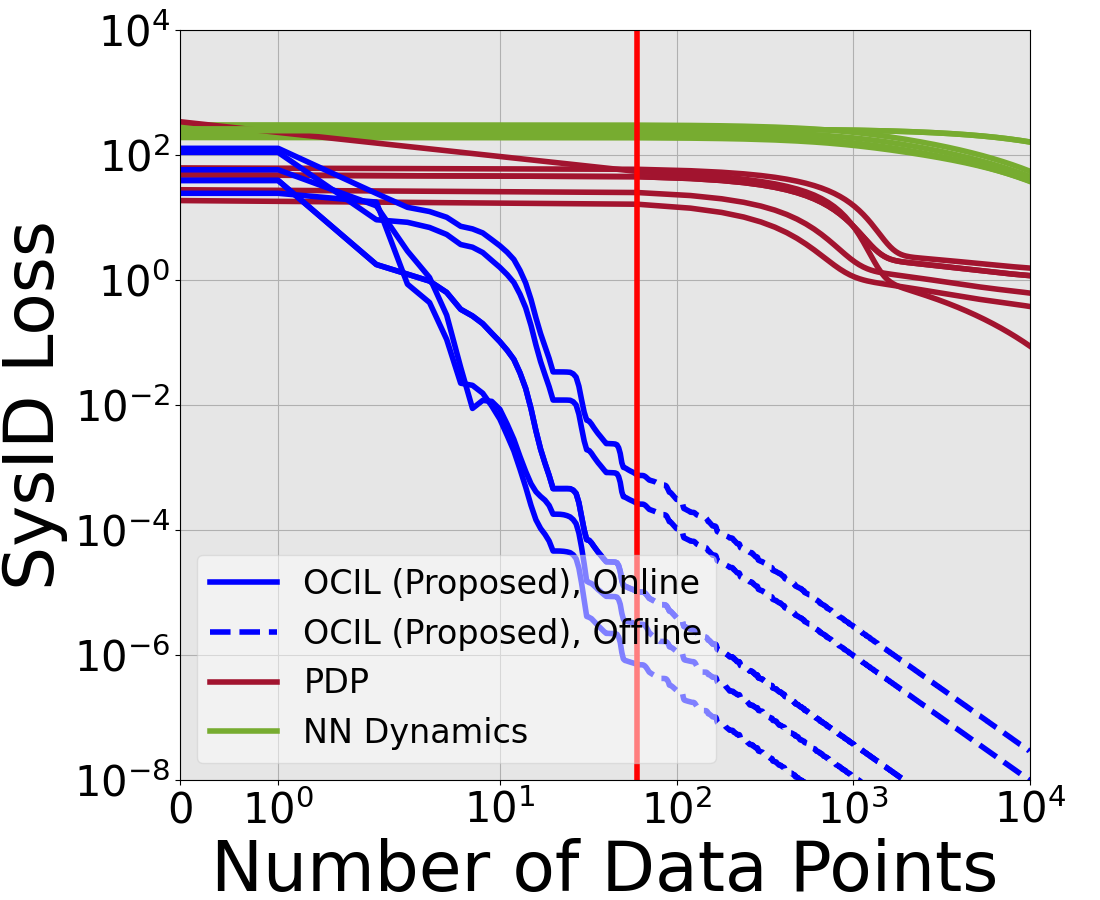
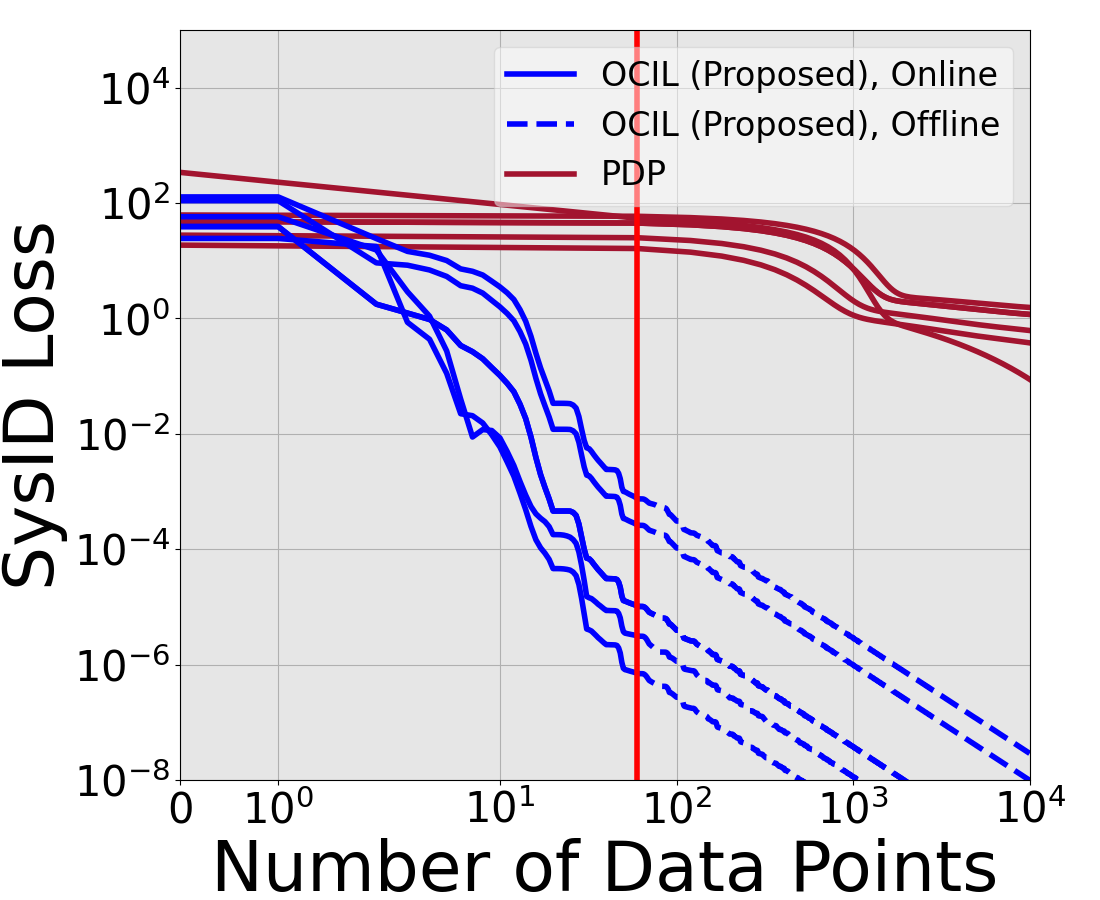
Update examples

diff --git a/examples/SysID/cartpole/data/plot.py b/examples/SysID/cartpole/data/plot.py
@@ -27,7 +27,7 @@ fig.add_axes(ax)
 ax.set_xscale('symlog')
 ax.set_yscale('log')
 ax.set_xlim(0,10000)
-ax.set_ylim(bottom=1e-8,top=1e4)
+ax.set_ylim(bottom=1e-8,top=1e5)
 ax.set_xlabel('Number of Data Points')
 ax.set_ylabel('SysID Loss')
 ax.tick_params(axis='both', which='major')
@@ -56,24 +56,12 @@ for i in range(5):
 pdp_iter = list(range(0, len(pdp_loss_list[0])))
 pdp_iter = [x*horizon for x in pdp_iter]
 
-# load nn results
-nn_loss_list = []
-for i in range(5):
-    load = sio.loadmat('NN_results_trial_' + str(i))
-    loss_trace = load['results']['loss_trace'][0, 0].flatten()
-    nn_loss_list += [loss_trace]
-
-nn_iter = list(range(0, len(nn_loss_list[0])))
-nn_iter = [x*horizon for x in nn_iter]
-
 # plot results
-for pdp_loss, nn_loss in zip(pdp_loss_list, nn_loss_list):
+for pdp_loss in pdp_loss_list:
     ax.plot(pdp_iter, pdp_loss, color = [0.6350, 0.0780, 0.1840], linewidth=4)
-    ax.plot(nn_iter, nn_loss[0:], color=[0.4660, 0.6740, 0.1880], linewidth=4)
 
 # show legend
 line_pdp,=ax.plot(pdp_iter, pdp_loss_list[0], color = [0.6350, 0.0780, 0.1840], linewidth=4)
-line_nn,=ax.plot(nn_iter, nn_loss_list[0][0:], color=[0.4660, 0.6740, 0.1880], linewidth=4)
 
 for OCIL_loss in OCIL_loss_list:
     ax.plot(OCIL_loss[:horizon], color='b', linewidth=4)
@@ -83,8 +71,8 @@ line_OCIL, = ax.plot(OCIL_loss_list[0][:horizon], color='b', linewidth=4)
 line_OCIL_dashed, = ax.plot(OCIL_iter[horizon:], OCIL_loss_list[0][horizon:], color='b', linestyle='--', linewidth=4)
 
 ax.axvline(horizon, color='r', linewidth=4)
-ax.legend([line_OCIL,line_OCIL_dashed,line_pdp,line_nn],['OCIL (Proposed), Online','OCIL (Proposed), Offline','PDP','NN Dynamics'],
-            facecolor='white',framealpha=0.5,loc=3, fontsize=24)
+ax.legend([line_OCIL,line_OCIL_dashed,line_pdp],['OCIL (Proposed), Online','OCIL (Proposed), Offline','PDP'],
+            facecolor='white',framealpha=0.5,loc=1, fontsize=24)
 
 # load nn OCIL results
 OCILnn_loss_list = []
@@ -118,16 +106,25 @@ for i in range(5):
 dmd_iter = list(range(0, len(dmd_loss_list[0])))
 dmd_iter = [x*horizon for x in dmd_iter]
 
-# load dkr results
-dkr_loss_list = []
+# # load dkr results
+# dkr_loss_list = []
+# for i in range(5):
+#     load = sio.loadmat('cartpole' +  str(i) + '_DKRloss.mat')
+#     loss_trace = load['loss_trace'].flatten()
+#     dkr_loss_list += [loss_trace]
+
+# dkr_iter = list(range(0, len(dkr_loss_list[0])))
+# dkr_iter = [100*x*horizon for x in dkr_iter]
+
+# load nn results
+nn_loss_list = []
 for i in range(5):
-    load = sio.loadmat('cartpole' +  str(i) + '_DKRloss.mat')
-    loss_trace = load['loss_trace'].flatten()
-    dkr_loss_list += [loss_trace]
+    load = sio.loadmat('NN_results_trial_' + str(i))
+    loss_trace = load['results']['loss_trace'][0, 0].flatten()
+    nn_loss_list += [loss_trace]
 
-dkr_iter = list(range(0, len(dkr_loss_list[0])))
-dkr_iter = [100*x*horizon for x in dkr_iter]
-
+nn_iter = list(range(0, len(nn_loss_list[0])))
+nn_iter = [x*horizon for x in nn_iter]
 
 params = {'axes.labelsize': 40,
           'axes.titlesize': 30,
@@ -149,7 +146,7 @@ fig2.add_axes(ax2)
 # ax2.set_xscale('symlog')
 ax2.set_yscale('log')
 ax2.set_xlim(-2400,120000)
-ax2.set_ylim(bottom=1e-5,top=1e5)
+ax2.set_ylim(bottom=1e-3,top=1e5)
 ax2.ticklabel_format(axis='x', style='sci', scilimits=(4,4))
 ax2.set_xlabel('Number of Data Points')
 ax2.set_ylabel('SysID Loss')
@@ -160,18 +157,21 @@ ax2.set_position([1,1,10,6])
 # plot results
 for dmd_loss in dmd_loss_list:
     ax2.plot(dmd_iter, dmd_loss, color = [0.9290, 0.6940, 0.1250], linewidth=4)
+line_dmd,=ax2.plot(pdpnn_iter, pdpnn_loss_list[0], color = [0.9290, 0.6940, 0.1250], linewidth=4)
+
+for nn_loss in nn_loss_list:
+    ax2.plot(nn_iter, nn_loss[0:], color=[0.4660, 0.6740, 0.1880], linewidth=4)
+line_nn,=ax2.plot(nn_iter, nn_loss_list[0][0:], color=[0.4660, 0.6740, 0.1880], linewidth=4)
 
 for pdp_loss in pdpnn_loss_list:
     ax2.plot(pdpnn_iter, pdp_loss, color = [0.6350, 0.0780, 0.1840], linewidth=4)
+line_pdpnn,=ax2.plot(pdpnn_iter, pdpnn_loss_list[0], color = [0.6350, 0.0780, 0.1840], linewidth=4)
 
-for dkr_loss in dkr_loss_list:
-    ax2.plot(dkr_iter, dkr_loss, color = [0.4660, 0.6740, 0.1880], linewidth=4)
-
+# for dkr_loss in dkr_loss_list:
+#     ax2.plot(dkr_iter, dkr_loss, color = [0.4660, 0.6740, 0.1880], linewidth=4)
 
 # show legend
-line_dmd,=ax2.plot(pdpnn_iter, pdpnn_loss_list[0], color = [0.9290, 0.6940, 0.1250], linewidth=4)
-line_pdpnn,=ax2.plot(pdpnn_iter, pdpnn_loss_list[0], color = [0.6350, 0.0780, 0.1840], linewidth=4)
-line_dkr,=ax2.plot(dkr_iter, dkr_loss_list[0], color = [0.4660, 0.6740, 0.1880], linewidth=4)
+# line_dkr,=ax2.plot(dkr_iter, dkr_loss_list[0], color = [0.4660, 0.6740, 0.1880], linewidth=4)
 
 
 for OCIL_loss in OCILnn_loss_list:
@@ -179,7 +179,7 @@ for OCIL_loss in OCILnn_loss_list:
 
 line_OCILnn, = ax2.plot(OCILnn_loss_list[0], color='b', linewidth=4)
 
-ax2.legend([line_OCILnn,line_pdpnn,line_dmd,line_dkr],['OCIL (Proposed)','PDP','DMDc','DKR'],
+ax2.legend([line_OCILnn,line_pdpnn,line_dmd,line_nn],['OCIL (Proposed)','PDP','DMDc','Pytorch Adam'],
             facecolor='white',framealpha=0.5,loc=1, fontsize=24)
 
 plt.show()

diff --git a/examples/SysID/rocket/data/plot.py b/examples/SysID/rocket/data/plot.py
@@ -27,7 +27,7 @@ fig.add_axes(ax)
 ax.set_xscale('symlog')
 ax.set_yscale('log')
 ax.set_xlim(0,10000)
-ax.set_ylim(bottom=1e-8,top=1e4)
+ax.set_ylim(bottom=1e-8,top=1e5)
 ax.set_xlabel('Number of Data Points')
 ax.set_ylabel('SysID Loss')
 ax.tick_params(axis='both', which='major')
@@ -46,19 +46,6 @@ for i in range(5):
 
 OCIL_iter = list(range(0, len(OCIL_loss_list[0])))
 
-# # load dmd results
-# dmd_loss_list = []
-# for i in range(5):
-#     load = sio.loadmat('DMD_results_trial_' + str(i))
-#     loss_trace = load['results']['loss_trace'][0, 0].flatten()
-#     index = np.argwhere(loss_trace > 1000)
-#     loss_trace[index] = loss_trace[
-#         index - 1]  # remove the spikes inside the data (only for kkt results, because it is too bad)
-#     dmd_loss_list += [loss_trace]
-
-# dmd_iter = list(range(0, len(dmd_loss_list[0])))
-# dmd_iter = [x*horizon for x in dmd_iter]
-
 # load pdp results
 pdp_loss_list = []
 for i in range(5):
@@ -69,24 +56,13 @@ for i in range(5):
 pdp_iter = list(range(0, len(pdp_loss_list[0])))
 pdp_iter = [x*horizon for x in pdp_iter]
 
-# load nn results
-nn_loss_list = []
-for i in range(5):
-    load = sio.loadmat('NN_results_trial_' + str(i))
-    loss_trace = load['results']['nn_loss_trace'][0, 0].flatten()
-    nn_loss_list += [loss_trace]
-
-nn_iter = list(range(0, len(nn_loss_list[0])))
-nn_iter = [100*x*horizon for x in nn_iter]
 
 # plot results
-for pdp_loss, nn_loss in zip(pdp_loss_list, nn_loss_list):
+for pdp_loss in pdp_loss_list:
     ax.plot(pdp_iter, pdp_loss, color = [0.6350, 0.0780, 0.1840], linewidth=4)
-    ax.plot(nn_iter, nn_loss[0:], color=[0.4660, 0.6740, 0.1880], linewidth=4)
 
 # show legend
 line_pdp,=ax.plot(pdp_iter, pdp_loss_list[0], color = [0.6350, 0.0780, 0.1840], linewidth=4)
-line_nn,=ax.plot(nn_iter, nn_loss_list[0][0:], color=[0.4660, 0.6740, 0.1880], linewidth=4)
 
 for OCIL_loss in OCIL_loss_list:
     ax.plot(OCIL_loss[:horizon], color='b', linewidth=4)
@@ -96,9 +72,8 @@ line_OCIL, = ax.plot(OCIL_loss_list[0][:horizon], color='b', linewidth=4)
 line_OCIL_dashed, = ax.plot(OCIL_iter[horizon:], OCIL_loss_list[0][horizon:], color='b', linestyle='--', linewidth=4)
 
 ax.axvline(horizon, color='r', linewidth=4)
-ax.legend([line_OCIL,line_OCIL_dashed,line_pdp,line_nn],['OCIL (Proposed), Online','OCIL (Proposed), Offline','PDP','NN Dynamics'],
-            facecolor='white',framealpha=0.5,loc=3, fontsize=24)
-
+ax.legend([line_OCIL,line_OCIL_dashed,line_pdp],['OCIL (Proposed), Online','OCIL (Proposed), Offline','PDP'],
+            facecolor='white',framealpha=0.5,loc=1, fontsize=24)
 
 
 # load nn OCIL results
@@ -108,7 +83,6 @@ for i in range(5):
     loss_trace = load['Loss'][0]
     OCILnn_loss_list += [loss_trace]
     horizon = int(load['horizon'])
-    print(loss_trace[-1])
 
 # load nn pdp results
 pdpnn_loss_list = []
@@ -119,6 +93,16 @@ for i in range(5):
 
 pdpnn_iter = list(range(0, len(pdpnn_loss_list[0])))
 pdpnn_iter = [x*horizon for x in pdpnn_iter]
+
+# load nn results
+nn_loss_list = []
+for i in range(5):
+    load = sio.loadmat('NN_results_trial_' + str(i))
+    loss_trace = load['results']['nn_loss_trace'][0, 0].flatten()
+    nn_loss_list += [loss_trace]
+
+nn_iter = list(range(0, len(nn_loss_list[0])))
+nn_iter = [100*x*horizon for x in nn_iter]
 
 params = {'axes.labelsize': 40,
           'axes.titlesize': 30,
@@ -149,19 +133,19 @@ ax2.set_facecolor('#E6E6E6')
 ax2.grid()
 ax2.set_position([1,1,10,6])
 
-for OCIL_loss in OCILnn_loss_list:
-    ax2.plot(OCIL_loss, color='b', linewidth=4)
+for nn_loss in nn_loss_list:
+    ax2.plot(nn_iter, nn_loss[0:], color=[0.4660, 0.6740, 0.1880], linewidth=4)
+line_nn,=ax2.plot(nn_iter, nn_loss_list[0][0:], color=[0.4660, 0.6740, 0.1880], linewidth=4)
 
-line_OCILnn, = ax2.plot(OCILnn_loss_list[0], color='b', linewidth=4)
-
-# plot results
 for pdp_loss in pdpnn_loss_list:
     ax2.plot(pdpnn_iter, pdp_loss, color = [0.6350, 0.0780, 0.1840], linewidth=4)
-
-# show legend
 line_pdpnn,=ax2.plot(pdpnn_iter, pdpnn_loss_list[0], color = [0.6350, 0.0780, 0.1840], linewidth=4)
 
-ax2.legend([line_OCILnn,line_pdpnn],['OCIL (Proposed)','PDP'],
+for OCIL_loss in OCILnn_loss_list:
+    ax2.plot(OCIL_loss, color='b', linewidth=4)
+line_OCILnn, = ax2.plot(OCILnn_loss_list[0], color='b', linewidth=4)
+
+ax2.legend([line_OCILnn,line_pdpnn,line_nn],['OCIL (Proposed)','PDP','Pytorch Adam'],
             facecolor='white',framealpha=0.5,loc=1, fontsize=24)
 
 plt.show()

diff --git a/examples/SysID/uav/data/plot.py b/examples/SysID/uav/data/plot.py
@@ -56,24 +56,13 @@ for i in range(5):
 pdp_iter = list(range(0, len(pdp_loss_list[0])))
 pdp_iter = [x*horizon for x in pdp_iter]
 
-# load nn results
-nn_loss_list = []
-for i in range(5):
-    load = sio.loadmat('NN_results_trial_' + str(i))
-    loss_trace = load['results']['loss_trace'][0, 0].flatten()
-    nn_loss_list += [loss_trace]
-
-nn_iter = list(range(0, len(nn_loss_list[0])))
-nn_iter = [x*horizon for x in nn_iter]
 
 # plot results
-for pdp_loss, nn_loss in zip(pdp_loss_list, nn_loss_list):
+for pdp_loss in pdp_loss_list:
     ax.plot(pdp_iter, pdp_loss, color = [0.6350, 0.0780, 0.1840], linewidth=4)
-    ax.plot(nn_iter, nn_loss[0:], color=[0.4660, 0.6740, 0.1880], linewidth=4)
 
 # show legend
 line_pdp,=ax.plot(pdp_iter, pdp_loss_list[0], color = [0.6350, 0.0780, 0.1840], linewidth=4)
-line_nn,=ax.plot(nn_iter, nn_loss_list[0][0:], color=[0.4660, 0.6740, 0.1880], linewidth=4)
 
 for OCIL_loss in OCIL_loss_list:
     ax.plot(OCIL_loss[:horizon], color='b', linewidth=4)
@@ -83,8 +72,8 @@ line_OCIL, = ax.plot(OCIL_loss_list[0][:horizon], color='b', linewidth=4)
 line_OCIL_dashed, = ax.plot(OCIL_iter[horizon:], OCIL_loss_list[0][horizon:], color='b', linestyle='--', linewidth=4)
 
 ax.axvline(horizon, color='r', linewidth=4)
-ax.legend([line_OCIL,line_OCIL_dashed,line_pdp,line_nn],['OCIL (Proposed), Online','OCIL (Proposed), Offline','PDP','NN Dynamics'],
-            facecolor='white',framealpha=0.5,loc=3, fontsize=24)
+ax.legend([line_OCIL,line_OCIL_dashed,line_pdp],['OCIL (Proposed), Online','OCIL (Proposed), Offline','PDP'],
+            facecolor='white',framealpha=0.5,loc=1, fontsize=24)
 
 
 # load nn OCIL results
@@ -119,6 +108,17 @@ for i in range(5):
 dmd_iter = list(range(0, len(dmd_loss_list[0])))
 dmd_iter = [x*horizon for x in dmd_iter]
 
+# load nn results
+nn_loss_list = []
+for i in range(5):
+    load = sio.loadmat('NN_results_trial_' + str(i))
+    loss_trace = load['results']['loss_trace'][0, 0].flatten()
+    nn_loss_list += [loss_trace]
+
+nn_iter = list(range(0, len(nn_loss_list[0])))
+nn_iter = [x*horizon for x in nn_iter]
+
+
 params = {'axes.labelsize': 40,
           'axes.titlesize': 30,
           'xtick.labelsize':30,
@@ -139,7 +139,7 @@ fig2.add_axes(ax2)
 # ax2.set_xscale('symlog')
 ax2.set_yscale('log')
 ax2.set_xlim(-1200,60000)
-# ax2.set_ylim(bottom=1e-8,top=1e4)
+ax2.set_ylim(bottom=1e-3,top=1e6)
 ax2.ticklabel_format(axis='x', style='sci', scilimits=(4,4))
 ax2.set_xlabel('Number of Data Points')
 ax2.set_ylabel('SysID Loss')
@@ -150,12 +150,14 @@ ax2.set_position([1,1,10,6])
 # plot results
 for dmd_loss in dmd_loss_list:
     ax2.plot(dmd_iter, dmd_loss, color = [0.9290, 0.6940, 0.1250], linewidth=4)
+line_dmd,=ax2.plot(pdpnn_iter, pdpnn_loss_list[0], color = [0.9290, 0.6940, 0.1250], linewidth=4)
+
+for nn_loss in nn_loss_list:
+    ax2.plot(nn_iter, nn_loss[0:], color=[0.4660, 0.6740, 0.1880], linewidth=4)
+line_nn,=ax2.plot(nn_iter, nn_loss_list[0][0:], color=[0.4660, 0.6740, 0.1880], linewidth=4)
 
 for pdp_loss in pdpnn_loss_list:
     ax2.plot(pdpnn_iter, pdp_loss, color = [0.6350, 0.0780, 0.1840], linewidth=4)
-
-# show legend
-line_dmd,=ax2.plot(pdpnn_iter, pdpnn_loss_list[0], color = [0.9290, 0.6940, 0.1250], linewidth=4)
 line_pdpnn,=ax2.plot(pdpnn_iter, pdpnn_loss_list[0], color = [0.6350, 0.0780, 0.1840], linewidth=4)
 
 for OCIL_loss in OCILnn_loss_list:
@@ -163,7 +165,7 @@ for OCIL_loss in OCILnn_loss_list:
 
 line_OCILnn, = ax2.plot(OCILnn_loss_list[0], color='b', linewidth=4)
 
-ax2.legend([line_OCILnn,line_pdpnn,line_dmd],['OCIL (Proposed)','PDP','DMDc'],
+ax2.legend([line_OCILnn,line_pdpnn,line_dmd,line_nn],['OCIL (Proposed)','PDP','DMDc','Pytorch Adam'],
             facecolor='white',framealpha=0.5,loc=1, fontsize=24)
 
 plt.show()
